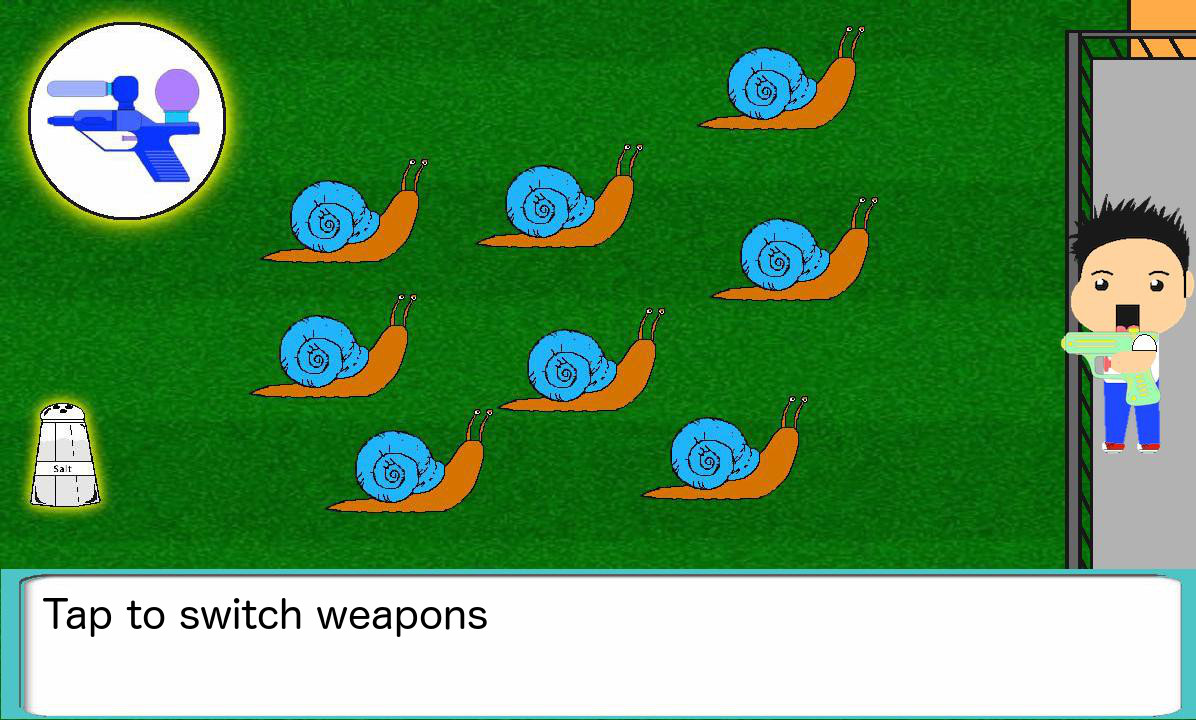
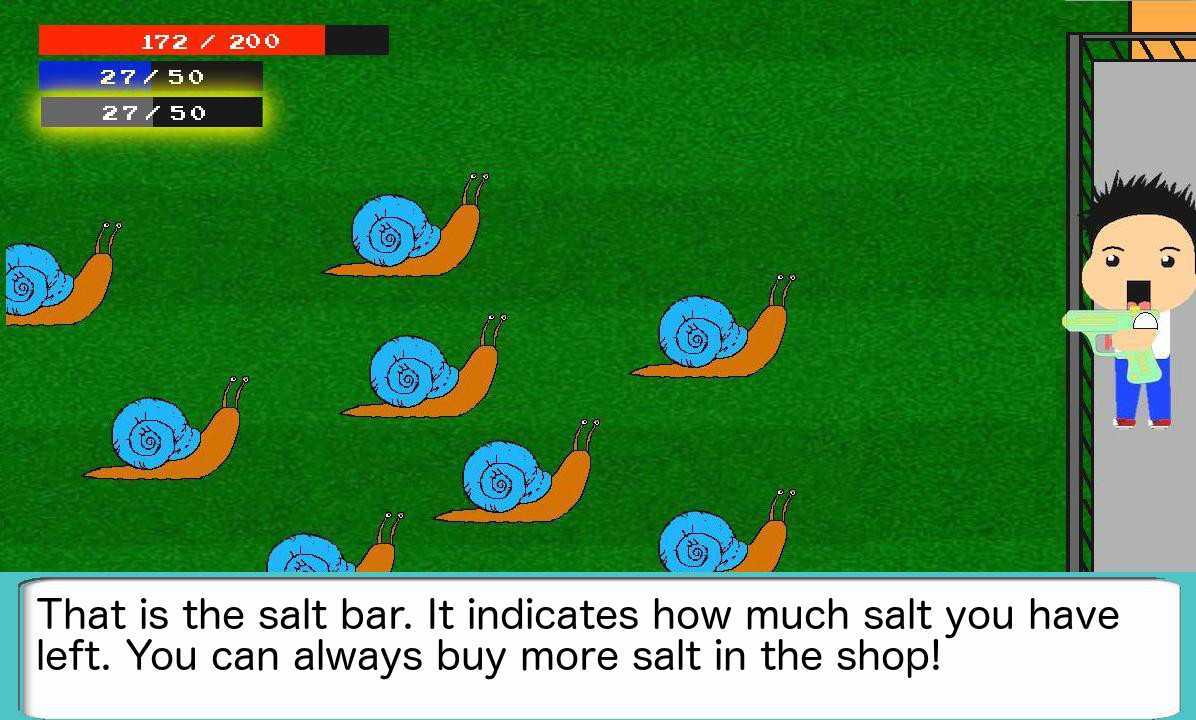
fixed tutorial

diff --git a/core/src/com/missionbit/snailassalt/SnailAssalt.java b/core/src/com/missionbit/snailassalt/SnailAssalt.java
@@ -20,6 +20,7 @@ public class SnailAssalt extends ApplicationAdapter  {
     private ShapeRenderer shapeRenderer;
     public static OrthographicCamera camera;
     protected static int numberOfLevels = 10;
+    protected int currentLevelNumber = 0;
     private int width, height;
     private static Vector3 tap;
     private BitmapFont font;
@@ -32,7 +33,7 @@ public class SnailAssalt extends ApplicationAdapter  {
     private Sprite hpBar;
     //UI end
     //tutorial and credits start
-    private Sprite credits, special, hurshalsface1, tutor1, tutor2, tutor3, tutor4, tutor5, tutor6, tutor7, tutor8;
+    private Sprite credits, special, hurshalsface1, tutor1, tutor2, tutor3, tutor4, tutor5, tutor6, tutor7, tutor8,tutor9;
     //tutorial and credits end
     //backgrounds start
     private Sprite menu, gameover, win, levelSelect, shop, laun;
@@ -53,6 +54,7 @@ public class SnailAssalt extends ApplicationAdapter  {
     private BackButton backButtonShop, backButtonGameEnd, backButtonLevelSelect, backButtonCredits, backButtonTutorial; //different back buttons because their position will most likely be different
     private NextButton nextTutorial;
     private LoseButton loseButton;
+    private NextLevelButton nextLevelButton;
     protected static HydraButton hydraButton;
     protected static HoseBut hosebut;
     private RedoButton redoLevelButton;
@@ -80,7 +82,7 @@ public class SnailAssalt extends ApplicationAdapter  {
 
     protected static GameState gameState, prevGameState;
 
-    protected static enum TutorialState {PAGE1, PAGE2, PAGE3, PAGE4, PAGE5, PAGE6, PAGE7, PAGE8}
+    protected static enum TutorialState {PAGE1, PAGE2, PAGE3, PAGE4, PAGE5, PAGE6, PAGE7, PAGE8,PAGE9}
 
     protected static TutorialState tutState;
 
@@ -166,7 +168,7 @@ public class SnailAssalt extends ApplicationAdapter  {
         tutor5 = new Sprite(new Texture("tutorial5.jpeg"));
         tutor5.setSize(width, height);
         tutor5.setPosition(0, 0);
-        tutor6 = new Sprite(new Texture("tutorial6.jpeg"));
+        tutor6 = new Sprite(new Texture("tutorial 6.jpeg"));
         tutor6.setSize(width, height);
         tutor6.setPosition(0, 0);
         tutor7 = new Sprite(new Texture("tutorial7.jpeg"));
@@ -175,6 +177,9 @@ public class SnailAssalt extends ApplicationAdapter  {
         tutor8 = new Sprite(new Texture("tutorial8.jpeg"));
         tutor8.setSize(width, height);
         tutor8.setPosition(0, 0);
+        tutor9 = new Sprite(new Texture("tutorial9.jpeg"));
+        tutor9.setSize(width,height);
+        tutor9.setPosition(0,0);
 
         //tutorial end
         //weapwns start
@@ -202,6 +207,7 @@ public class SnailAssalt extends ApplicationAdapter  {
         //buttons start #iSuckAtCoding
         startButtonMenu = new StartButton(width / 2 - 325, height / 2 - 200);
         redoLevelButton = new RedoButton(width / 2 - 200, height / 2 - 200);
+        nextLevelButton = new NextLevelButton(0,0);
         redoLevelButton.sprite.setSize(redoLevelButton.image.getWidth() + (redoLevelButton.image.getWidth() / 3), startButtonMenu.buttonGetHeight());
         redoLevelButton.spriteNope.setSize(redoLevelButton.image.getWidth() + (redoLevelButton.image.getWidth() / 3), startButtonMenu.buttonGetHeight());
 
@@ -236,7 +242,7 @@ public class SnailAssalt extends ApplicationAdapter  {
             }
             levels.add(new Level(a + 1));
         }
-        currentLevel = new Level(1);
+        currentLevel = new Level(0);
         //levels end
        /* victorysound = Gdx.audio.newSound(Gdx.files.internal("victorysound.mp3"));
         defeatsound = Gdx.audio.newSound(Gdx.files.internal("defeatsound.mp3"));
@@ -282,6 +288,7 @@ public class SnailAssalt extends ApplicationAdapter  {
         creditsButton.position.set(creditsButton.getXPos(), creditsButton.getYPos());
         loseButton.position.set(loseButton.getXPos(), loseButton.getYPos());
         redoLevelButton.position.set(redoLevelButton.getXPos(), redoLevelButton.getYPos());
+        nextLevelButton.position.set(nextLevelButton.getXPos(), nextLevelButton.getYPos());
         for (int a = 0; a < numberOfLevels; a++)
             levelButtons.get(a).position.set(levelButtons.get(a).getXPos(), levelButtons.get(a).getYPos());
     }
@@ -341,7 +348,7 @@ public class SnailAssalt extends ApplicationAdapter  {
           
 
         } else if (gameState == GameState.TUTORIAL) {
-            if (tutState == TutorialState.PAGE8) {
+            if (tutState == TutorialState.PAGE9) {
                 if (backButtonTutorial.isPressed()) {
                     backButtonTutorial.pressedAction();
                 } //go to next page of tutorial
@@ -353,7 +360,8 @@ public class SnailAssalt extends ApplicationAdapter  {
         } else if (gameState == GameState.LEVELSELECT) { //in level select
             for (int a = 0; a < numberOfLevels; a++) {
                 if (levelButtons.get(a).isPressed()) {
-                    currentLevel = levels.get(a); //current level is now whatever level that was pressed
+                    currentLevelNumber = a;
+                    currentLevel = levels.get(currentLevelNumber); //current level is now whatever level that was pressed
                     enemies = currentLevel.getEnemies(); //enemies arraylist now holds level's enemies
                     currentLevel.enemyCount = 0;
                     levelButtons.get(a).pressedAction(); //go in-game
@@ -576,6 +584,13 @@ public class SnailAssalt extends ApplicationAdapter  {
                 enemies = currentLevel.getEnemies(); //reloads level's enemies
                 redoLevelButton.pressedAction(); //go to in-game
             }
+            if (nextLevelButton.isPressed()&& nextLevelButton.pressable()){
+                enemies = currentLevel.getEnemies(); //enemies arraylist now holds level's enemies
+                currentLevelNumber++;
+                currentLevel = levels.get(currentLevelNumber);
+                currentLevel.enemyCount = 0;
+                gameState = GameState.INGAME;
+            }
         }
     }
 
@@ -668,6 +683,9 @@ public class SnailAssalt extends ApplicationAdapter  {
             } else if (tutState == TutorialState.PAGE8) {
                 tutor8.draw(batch);
                 nextTutorial.draw(batch);
+            } else if (tutState == TutorialState.PAGE9) {
+                tutor9.draw(batch);
+                backButtonTutorial.draw(batch);
             }
             batch.end();
         } else if (gameState == GameState.INGAME) { //in-game
@@ -725,7 +743,7 @@ public class SnailAssalt extends ApplicationAdapter  {
                 batch.draw(snailshell.image, snailshell.bounds.x, snailshell.bounds.y);
                 //snailshell.sprite.draw(batch);
             }
-            //font.draw(batch, "Current level: " + currentLevel.getLevelNumber(), 10, 90);
+            font.draw(batch, "Current level: " + currentLevel.getLevelNumber(), 10, 90);
             font.draw(batch, "Current state: in-game", 10, height);
             font.draw(batch, "Snailshells: " + currency, 10, height - 200);
             batch.end();
@@ -753,22 +771,25 @@ public class SnailAssalt extends ApplicationAdapter  {
             hpBar.draw(batch);
             batch.end();
         }
-            else if (gameState == GameState.GAMEOVER || gameState == GameState.WIN) { //in game over/win
-                batch.begin();
-                if (gameState == GameState.GAMEOVER) {
+        else if (gameState == GameState.GAMEOVER || gameState == GameState.WIN) { //in game over/win
+            batch.begin();
+            if (gameState == GameState.GAMEOVER) {
                     gameover.draw(batch);
                     redoLevelButton.spriteNope.draw(batch);
                 }
-                else {
-                    win.draw(batch);
-                    redoLevelButton.sprite.draw(batch);
+            else {
+                win.draw(batch);
+                redoLevelButton.sprite.draw(batch);
 
-                }
-                backButtonGameEnd.spriteNope.draw(batch);
-                shopButtonGameEnd.sprite.draw(batch);
-                batch.end();
             }
+            nextLevelButton.sprite.draw(batch);
+
+
+            backButtonGameEnd.spriteNope.draw(batch);
+        shopButtonGameEnd.sprite.draw(batch);
+        batch.end();
         }
+    }
 
 
     public void addSlime(Droppings dropping) {

diff --git a/core/src/com/missionbit/snailassalt/BackButton.java b/core/src/com/missionbit/snailassalt/BackButton.java
@@ -1,12 +1,5 @@
 package com.missionbit.snailassalt;
 
-import com.badlogic.gdx.Gdx;
-import com.badlogic.gdx.graphics.Texture;
-import com.badlogic.gdx.graphics.g2d.Batch;
-import com.badlogic.gdx.graphics.g2d.Sprite;
-import com.badlogic.gdx.math.Rectangle;
-import com.badlogic.gdx.math.Vector2;
-
 /**
   Created by ryansheeisaqt on 6/18/14.
  */
@@ -18,7 +11,7 @@ public class BackButton extends Button {
         if (SnailAssalt.prevGameState == SnailAssalt.GameState.GAMEOVER || SnailAssalt.prevGameState == SnailAssalt.GameState.WIN) {SnailAssalt.gameState = SnailAssalt.prevGameState;}
         else if (SnailAssalt.gameState == SnailAssalt.GameState.WIN || SnailAssalt.gameState == SnailAssalt.GameState.GAMEOVER) {SnailAssalt.gameState = SnailAssalt.GameState.LEVELSELECT;}
         else if (SnailAssalt.gameState == SnailAssalt.GameState.TUTORIAL) {
-            if (SnailAssalt.tutState == SnailAssalt.TutorialState.PAGE8) {
+            if (SnailAssalt.tutState == SnailAssalt.TutorialState.PAGE9) {
                 if (SnailAssalt.preferences.getInteger("tutorial", 0) == 0) {
                     SnailAssalt.preferences.putInteger("tutorial", 1);
                 }

diff --git a/core/src/com/missionbit/snailassalt/NextButton.java b/core/src/com/missionbit/snailassalt/NextButton.java
@@ -16,10 +16,11 @@ public class NextButton extends Button {
             else if (SnailAssalt.tutState == SnailAssalt.TutorialState.PAGE5) {SnailAssalt.tutState = SnailAssalt.TutorialState.PAGE6;}
             else if (SnailAssalt.tutState == SnailAssalt.TutorialState.PAGE6) {SnailAssalt.tutState = SnailAssalt.TutorialState.PAGE7;}
             else if (SnailAssalt.tutState == SnailAssalt.TutorialState.PAGE7) {SnailAssalt.tutState = SnailAssalt.TutorialState.PAGE8;}
-
+            else if (SnailAssalt.tutState == SnailAssalt.TutorialState.PAGE8) {SnailAssalt.tutState = SnailAssalt.TutorialState.PAGE9;}
             else {
                 SnailAssalt.gameState = SnailAssalt.GameState.MAINMENU;
             }
         }
+
     }
 }

diff --git a/core/src/com/missionbit/snailassalt/NextLevelButton.java b/core/src/com/missionbit/snailassalt/NextLevelButton.java
@@ -1,0 +1,10 @@
+package com.missionbit.snailassalt;
+
+/**
+ * Created by linchen on 8/6/14.
+ */
+public class NextLevelButton extends Button {
+    public NextLevelButton(float x, float y) {
+        super(x, y, "next level button.png", "next level button.png");
+    }
+    }
